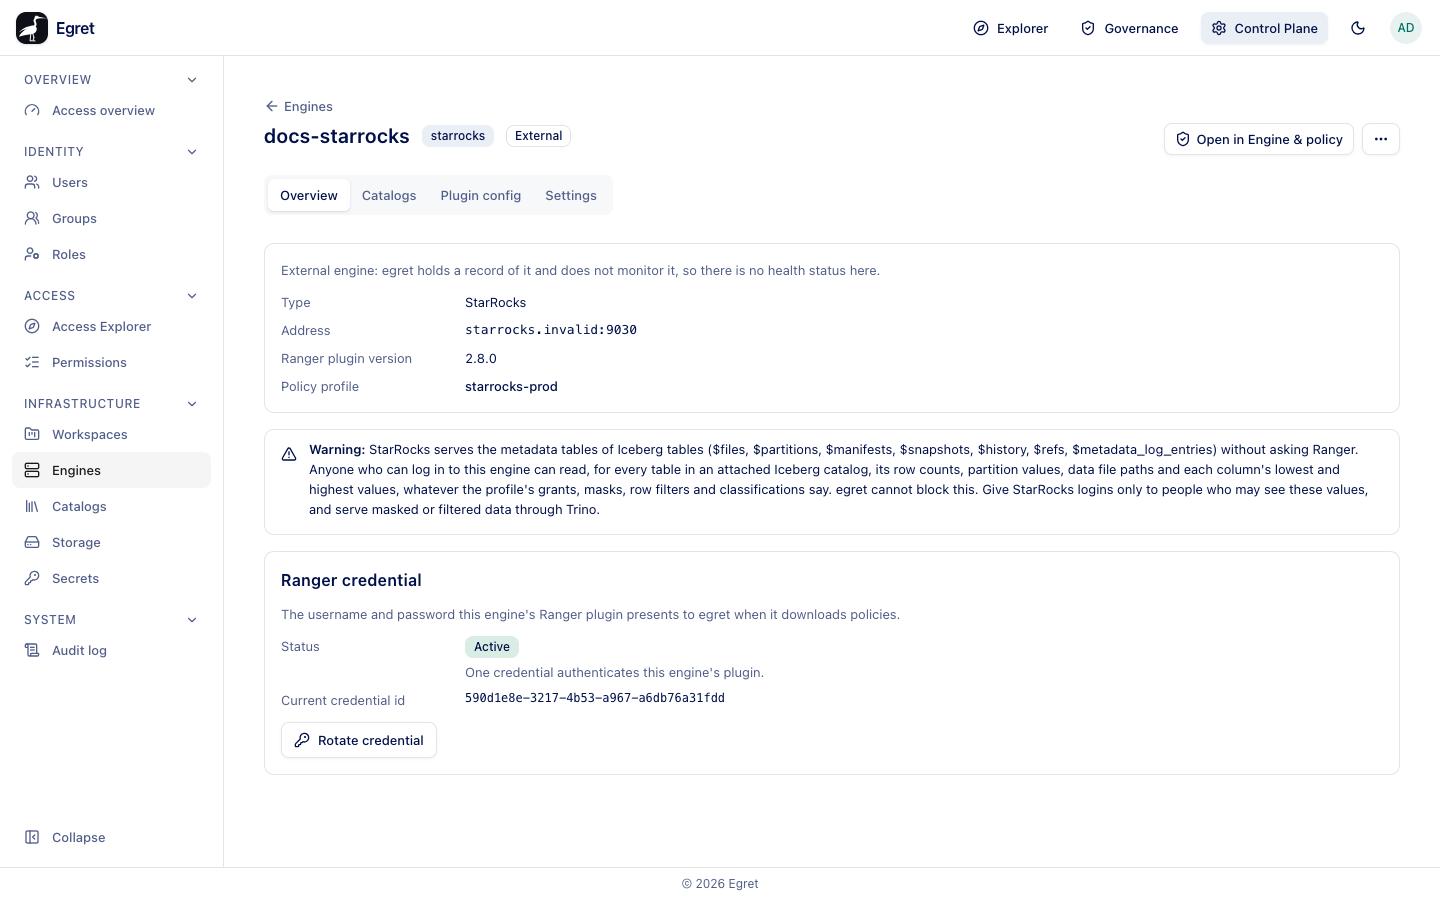
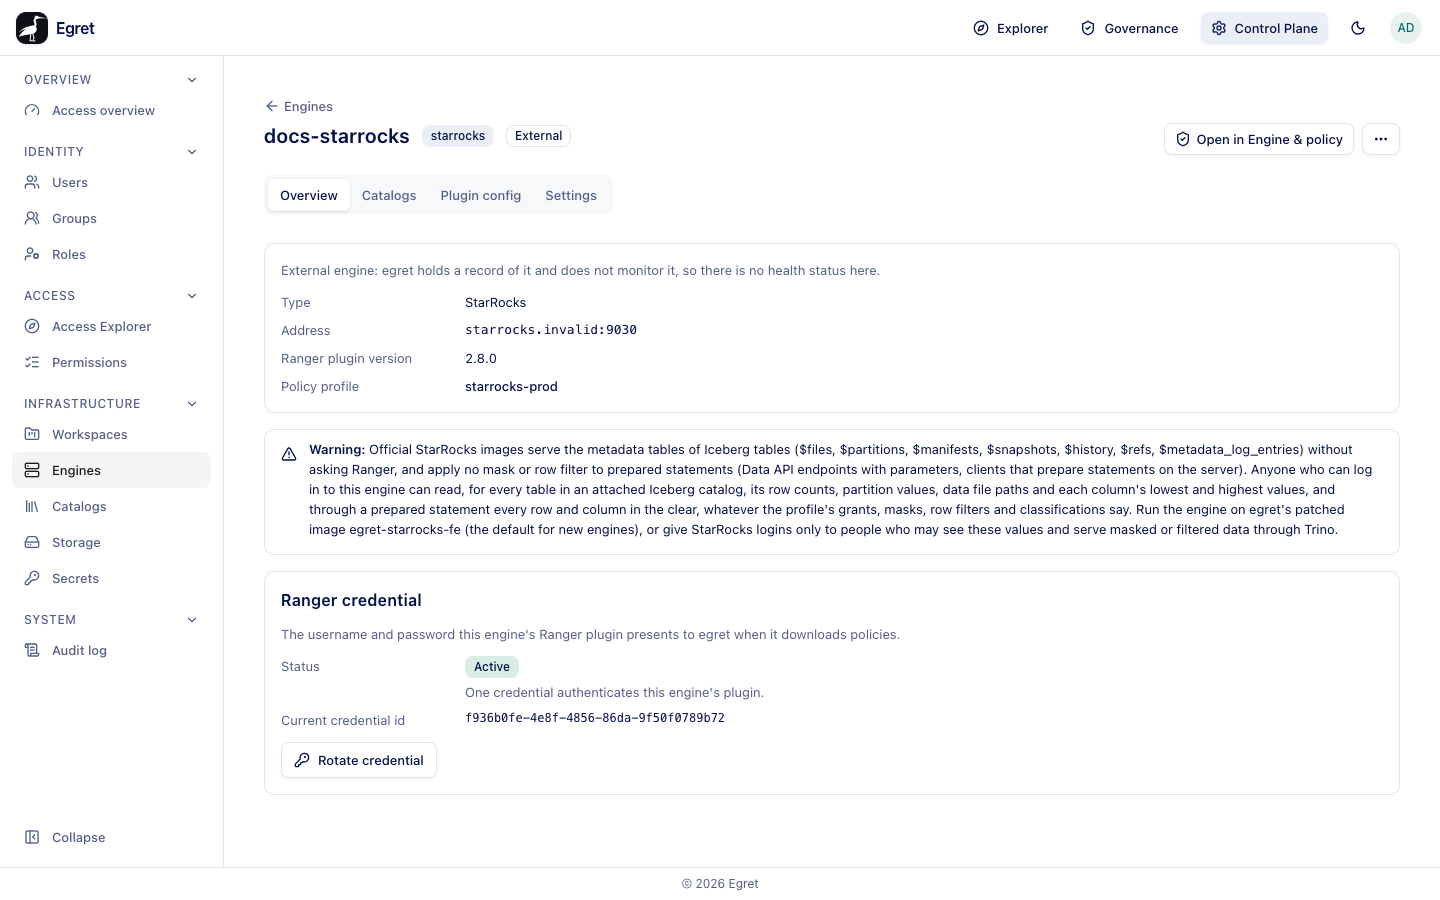
docs: re-shoot the StarRocks warning screenshots for the patched image (#826)
- re-shoot gov-engine-starrocks-warning, cp-engine-ext-sr-overview,
  cp-engine-ext-sr-settings and cp-register-sr-warning with the new warning
  text (official images, prepared statements, egret-starrocks-fe)
- the shot entries wait for the new wording; alt texts follow it

Changed region(s): [[0.1875, 0.4978, 0.9375, 0.8089], [0.1875, 0.7778, 0.3125, 0.8711]]

diff --git a/platform/control-plane/query-engines/engine-detail.md b/platform/control-plane/query-engines/engine-detail.md
@@ -121,7 +121,7 @@ The header shows the engine name, its type, an **External** badge and **Open in 
 
 For a StarRocks engine with a bound profile the tab also shows a warning (since platform #822; widened in platform #826): official StarRocks images serve the metadata tables of Iceberg tables (`$files`, `$partitions`, `$snapshots` and the others) without asking Ranger, so anyone who can log in to the engine can read row counts, partition values, data file paths and each column's lowest and highest values for every table of an attached Iceberg catalog, whatever the profile's grants, masks, row filters and classifications say, and apply no mask or row filter to prepared statements such as Data API endpoints with parameters (KI-340, KI-345). Egret's patched image `ghcr.io/egret-data/egret-starrocks-fe` fixes both; run the engine on it. Give StarRocks logins only to people who may see these values, and serve masked or filtered data through Trino. A Trino engine shows no such warning.
 
-![The Overview tab of the external StarRocks engine docs-starrocks with the metadata-table warning](/img/platform/admin/cp-engine-ext-sr-overview.png)
+![The Overview tab of the external StarRocks engine docs-starrocks with the StarRocks security warning](/img/platform/admin/cp-engine-ext-sr-overview.png)
 
 ### Catalogs
 
@@ -153,7 +153,7 @@ The installation files and warnings for the Ranger plugin: **Ranger service name
 
 For a StarRocks engine, the same warning appears under **Policy profile** as soon as a profile is picked, before you save.
 
-![The Settings tab of docs-starrocks with the profile starrocks-prod picked and the metadata-table warning under it](/img/platform/admin/cp-engine-ext-sr-settings.png)
+![The Settings tab of docs-starrocks with the profile starrocks-prod picked and the StarRocks security warning under it](/img/platform/admin/cp-engine-ext-sr-settings.png)
 
 Changing or removing the profile recompiles both the old and the new profile. If that would leave two mask or row-filter rules deciding one column differently, egret refuses and changes nothing. **Save changes** applies; before any edit the form says *Nothing has changed yet.*
 

diff --git a/platform/data-governance/engines-and-policy/index.md b/platform/data-governance/engines-and-policy/index.md
@@ -62,7 +62,7 @@ Select an engine to open its page. The header shows the engine name, its **Type*
 
 For a StarRocks engine bound to a profile, a warning under the header says that official StarRocks images serve the metadata tables of Iceberg tables (`$files`, `$partitions`, `$snapshots` and the others) without asking Ranger, so anyone who can log in to the engine can read row counts, partition values, data file paths and each column's lowest and highest values for every table of an attached Iceberg catalog, whatever the profile's grants, masks, row filters and classifications say, and apply no mask or row filter to prepared statements (KI-340, KI-345). It advises running the engine on Egret's patched image `ghcr.io/egret-data/egret-starrocks-fe`, or giving StarRocks logins only to people who may see these values and serving masked or filtered data through Trino (since platform #822). With **engine:read**, it is not shown for a provisioned engine on Egret's patched image `ghcr.io/egret-data/egret-starrocks-fe` (the default for new engines since platform #826), which fixes both holes; an external engine always shows it, because Egret does not know its image.
 
-![The Governance page of the external StarRocks engine docs-starrocks: the warning that StarRocks serves Iceberg metadata tables without asking Ranger, above the tabs](/img/platform/admin/gov-engine-starrocks-warning.png)
+![The Governance page of the external StarRocks engine docs-starrocks: the warning that official StarRocks images serve Iceberg metadata tables without asking Ranger and apply no mask or row filter to prepared statements, above the tabs](/img/platform/admin/gov-engine-starrocks-warning.png)
 
 The tabs are:
 

diff --git a/platform/control-plane/query-engines/register-external.md b/platform/control-plane/query-engines/register-external.md
@@ -46,7 +46,7 @@ Egret proves migrations and explains access only for Trino with plugin 2.5.0 or 
 
 For a StarRocks engine, picking a profile shows a warning under the picker (since platform #822): official StarRocks images serve the metadata tables of Iceberg tables without asking Ranger, so anyone who can log in to the engine can read row counts, partition values, data file paths and column bounds of every table in its Iceberg catalogs, whatever the profile says, and apply no mask or row filter to prepared statements (KI-340, KI-345). Run the external engine on Egret's patched image `ghcr.io/egret-data/egret-starrocks-fe`, which fixes both; the warning stays, because Egret cannot see which image an external engine runs.
 
-![Register external engine with type StarRocks and a profile picked: the metadata-table warning under Policy profile](/img/platform/admin/cp-register-sr-warning.png)
+![Register external engine with type StarRocks and a profile picked: the StarRocks security warning under Policy profile](/img/platform/admin/cp-register-sr-warning.png)
 
 :::note
 A Trino profile needs a tag service to be bound. Pick one when you create the profile with **New profile**, or set it later on the profile's **Advanced** tab (see [Engines and policy](../../data-governance/engines-and-policy/index.md#create-a-policy-profile)).
